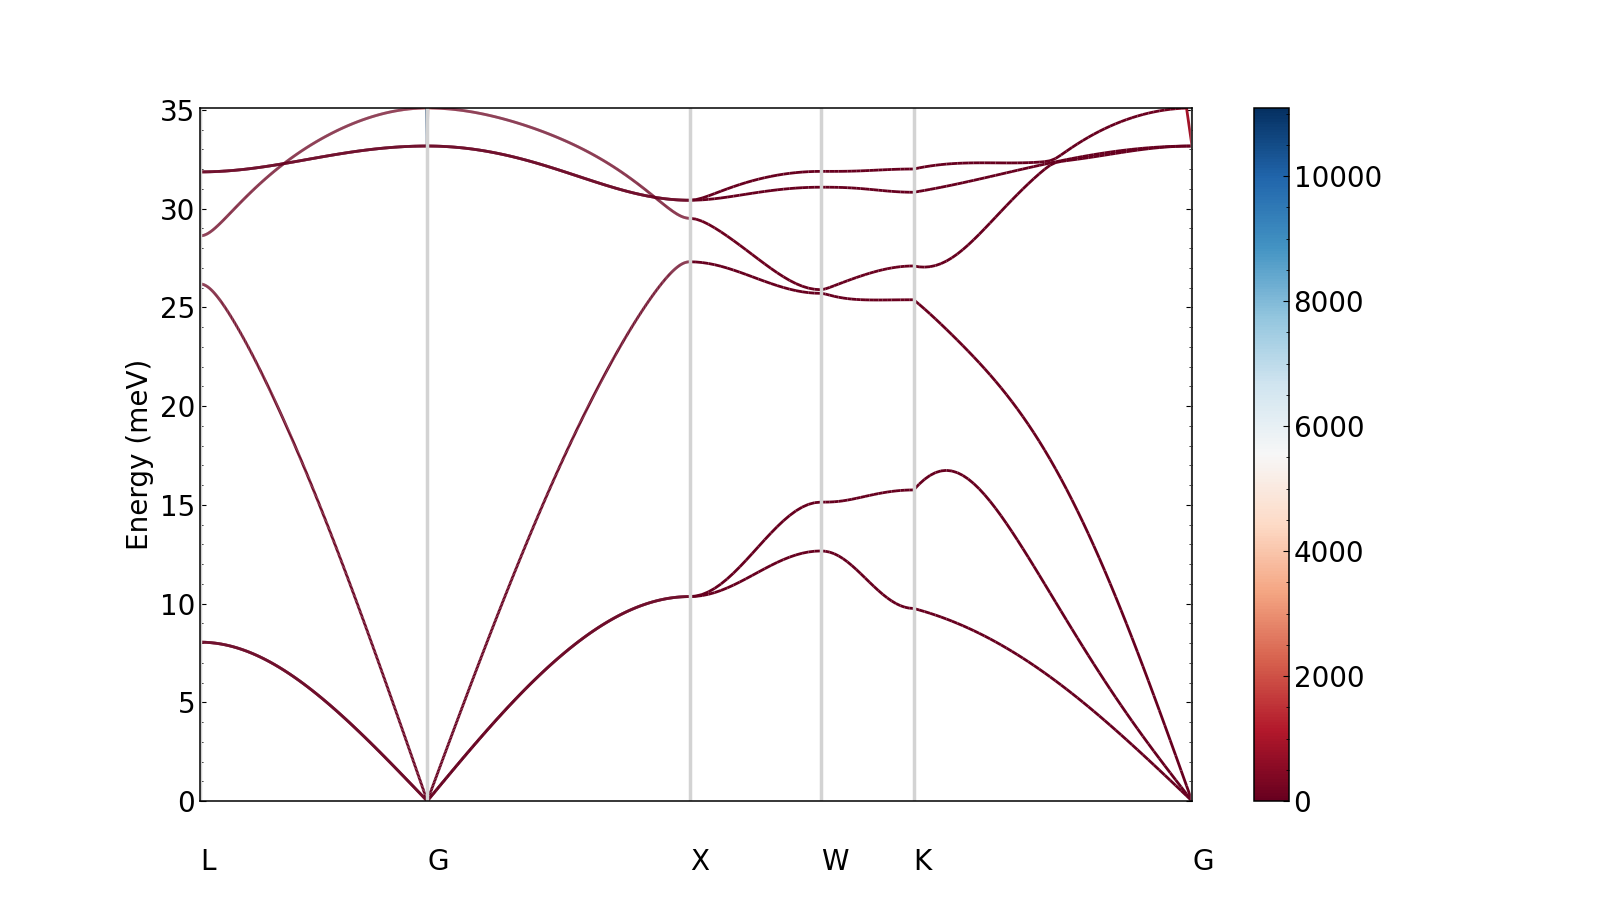
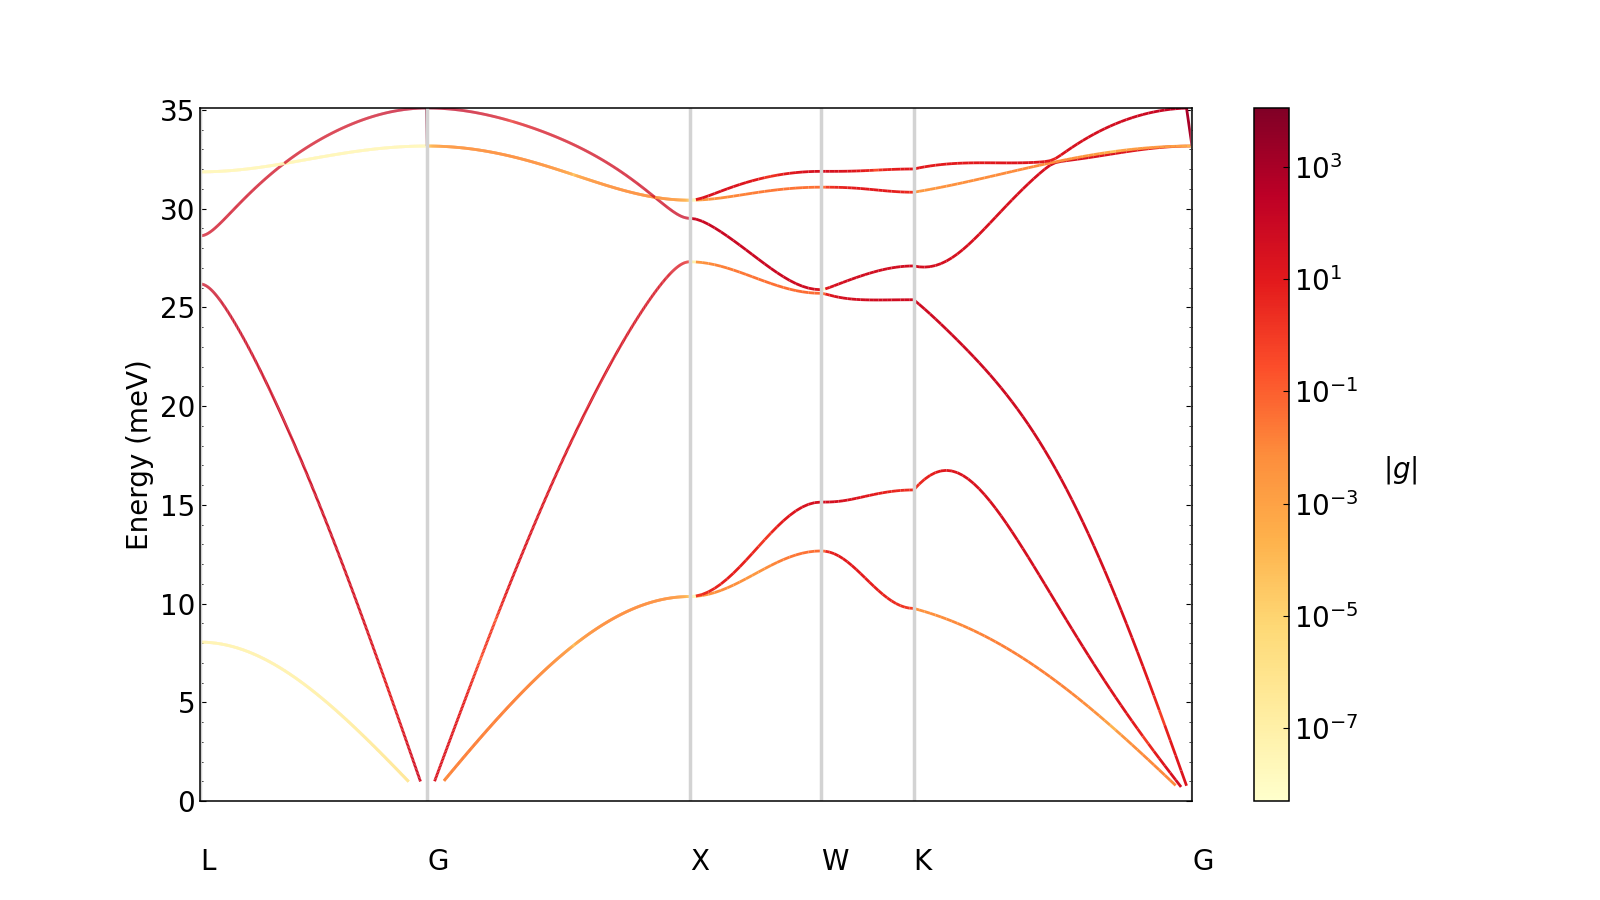
small fixes

diff --git a/Hands-on2/gallium_arsenide/perturbo/pert-ephmat/plot_ephmat.py b/Hands-on2/gallium_arsenide/perturbo/pert-ephmat/plot_ephmat.py
@@ -9,15 +9,9 @@ plt.rcParams.update(ppy.plot_tools.plotparams)
 gaas_ephmat.qpt.add_labels(ppy.lattice.points_fcc)
 
 fig1, ax1  = plt.subplots()
-gaas_ephmat.plot_ephmat(ax1)
+gaas_ephmat.plot_ephmat(ax1,log=True)
 #plt.show()
 plt.savefig('gaas_ephmat.png')
-
-
-fig2, ax2  = plt.subplots()
-gaas_ephmat.plot_defpot(ax2)
-plt.savefig('gaas_defpot.png')
-#plt.show()
 
 fig3, ax3  = plt.subplots()
 gaas_ephmat.plot_phdisp(ax3)

diff --git a/Hands-on2/README.md b/Hands-on2/README.md
@@ -533,7 +533,7 @@ plt.rcParams.update(ppy.plot_tools.plotparams)
 gaas_ephmat.qpt.add_labels(ppy.lattice.points_fcc)
 
 fig, ax  = plt.subplots()
-gaas_ephmat.plot_ephmat(ax)
+gaas_ephmat.plot_ephmat(ax,log=True)
 #plt.show()
 plt.savefig('gaas_ephmat.png')
 ```
@@ -544,31 +544,6 @@ open it with preview or open the finder (Mac):
 >> open -a Finder .
 ```
 ![](./pic/gaas_ephmat.png)
-
-
-* visualize deformation potential (using perturbopy)
-
-```python=
-import perturbopy.postproc as ppy
-import matplotlib.pyplot as plt
-
-gaas_ephmat = ppy.Ephmat.from_yaml('gaas_ephmat.yml')
-
-plt.rcParams.update(ppy.plot_tools.plotparams)
-gaas_ephmat.qpt.add_labels(ppy.lattice.points_fcc)
-
-fig, ax  = plt.subplots()
-gaas_ephmat.plot_defpot(ax)
-#plt.show()
-plt.savefig('gaas_defpot.png')
-```
-open it with preview or open the finder (Mac):
-```bash
->> open gaas_defpot.png 
-#or 
->> open -a Finder .
-```
-![](./pic/gaas_defpot.png)
 
 
 * visualize the phonon dispersion  (using perturbopy)
